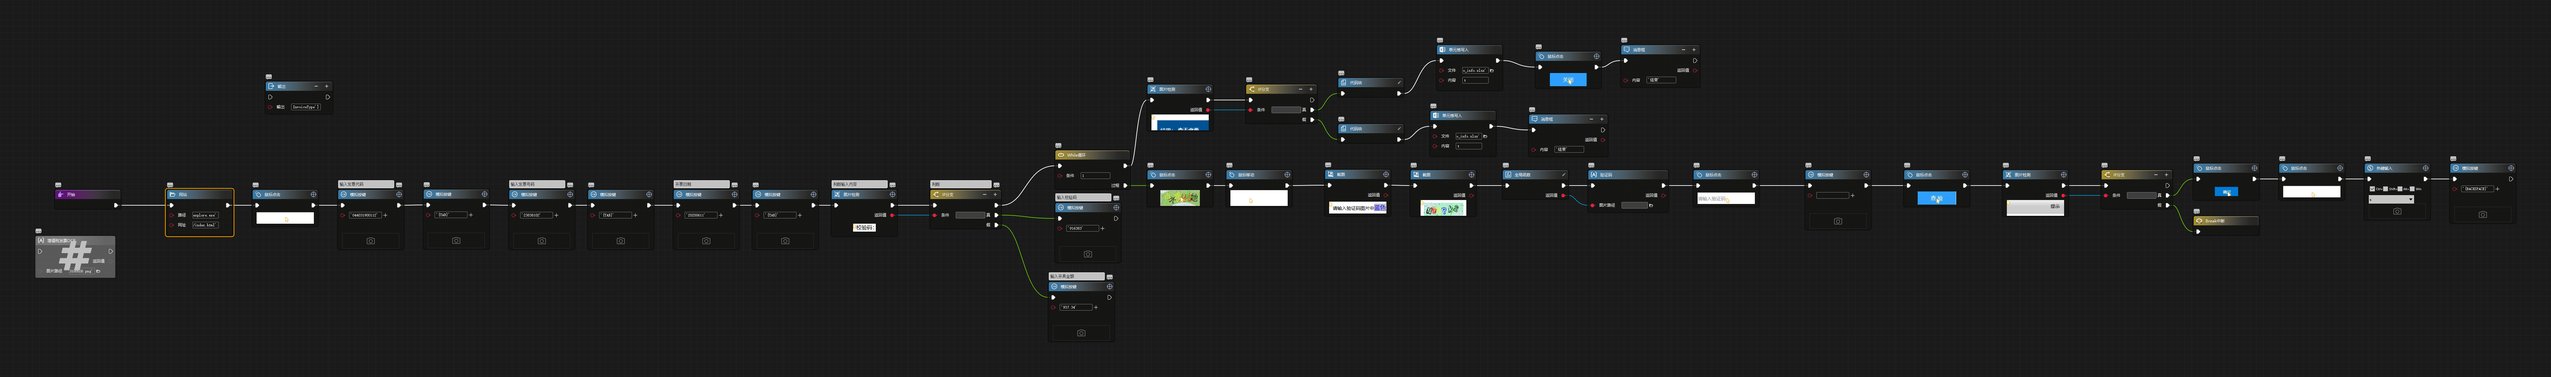
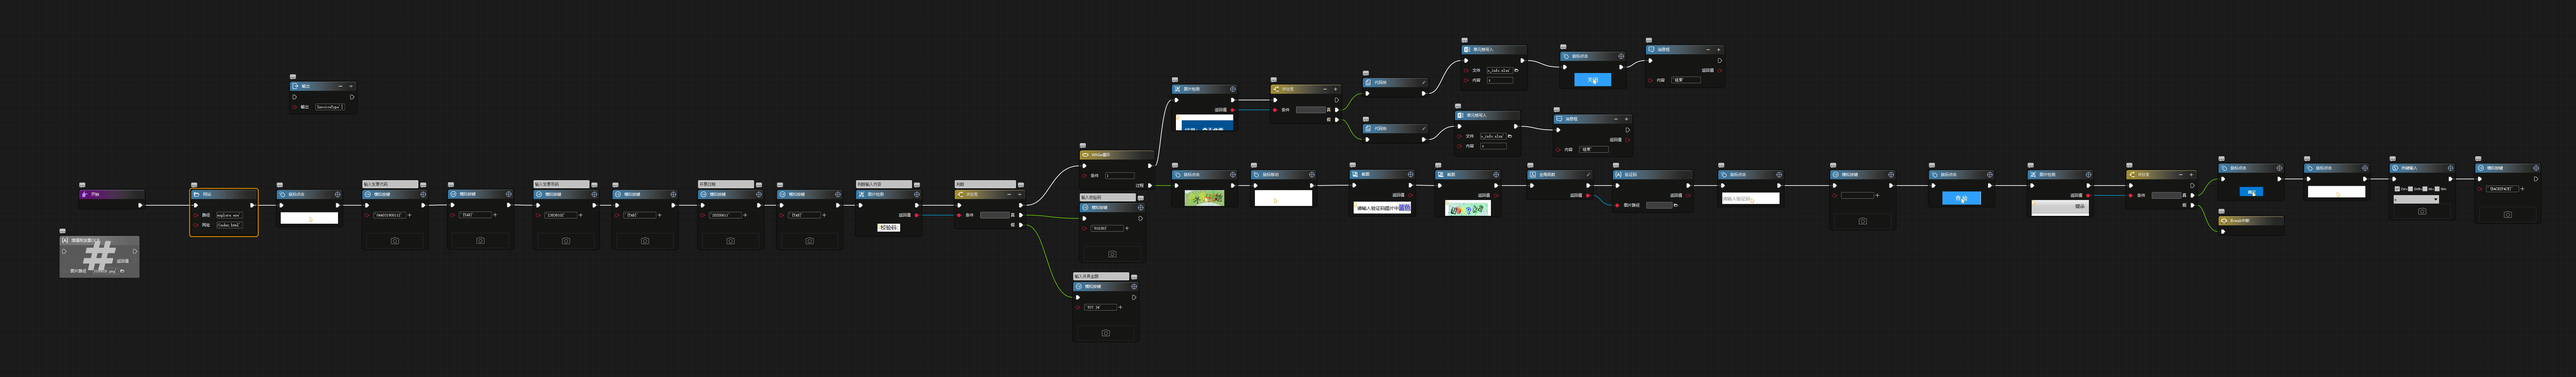
20200623172024

diff --git a/codes/Main_d.py b/codes/Main_d.py
@@ -1,5 +1,5 @@
 # coding=utf-8
-# 编译日期：2020-06-23 17:19:18
+# 编译日期：2020-06-23 17:20:23
 # 版权所有：www.i-search.com.cn
 import time
 import pdb
@@ -38,7 +38,6 @@ class lanhe_fapiao:
         self.dict_info={'AmountInWords':'佰叁拾圆叁角肆分','NoteDrawer':'谢登梅','SellerAddress':'深州市龙华区庆湾街道庆津大道乌庆旺路文汇处民治商务中心1栋115栋、2、3栋、4幢009栋7553323188', 'CommodityPrice':'[]','CommodityNum':'[]','SellerRegisterNum': '91440300689404127F','SellerBank':'农业银行龙华支行41028900040099987','Remarks':'订单号1047426466044621910支付日期2020-06-07','CommodityTaxRate':'[]','TotalTax':'62.05', 'CheckCode':'17960524178417916383','InvoiceCode': '044031900111','InvoiceDate':'2020年06月11日', 'PurchaserRegisterNum':'91440300MA5EGKDJ92','InvoiceTypeOrg': '深圳增值税电子普通发票','Password':'','PurchaserBank':'', 'AmountInFiguers':'937.34','Checker':'郑晓碧','TotalAmount': '875.29','CommodityAmount':"[{'row':'1','word':'875.29'}]", 'PurchaserName':'深圳市蓝禾技术有限公司','CommodityType': '[]','InvoiceType':'电子普通发票','PurchaserAddress':'', 'CommodityTax':"[{'row':'1','word':'62.05'}]", 'CommodityUnit':'[]','Payee':'刘笑额','SellerName':'深圳康润华商贸有限公司','CommodityName':"[{'row':'1','word':'(详见销货清单'}]",'InvoiceNum':'23838102'}
       
     def flow1(self):
-        t=['电子普通发票','深圳增值税电子普通发票','91440300MA5EGKDJ92', '2020年06月11日','044031900111','23838102', '17960524178417916383','875.29','62.05','937.34',"[{'row': '1', 'word': '(详见销货清单'}]"]
         lv_6=[dict_info['InvoiceType'],dict_info['InvoiceTypeOrg'],dict_info['PurchaserRegisterNum'],dict_info[ 'InvoiceDate'],dict_info['InvoiceCode'],dict_info['InvoiceNum'],dict_info['CheckCode'],dict_info['TotalAmount'],dict_info['TotalTax'],dict_info['AmountInFiguers'],dict_info['CommodityName']
         #网站
         self.__logger.debug('Flow:flow1,StepNodeTag:2314134287815,Note:')
@@ -208,6 +207,6 @@ if __name__ == '__main__':
         elif opt in ("-i", "--input"):
             input_arg = arg
     pro = lanhe_fapiao(robot_no=robot_no,proc_no=proc_no,job_no=job_no,input_arg=input_arg)
-    pro.flow1()
+    pro.Main()
     ___logger = ILog(__file__)
     ___logger.debug('Class:Main,ProTag:Quit,Note:Exit')

diff --git a/codes/Main.py b/codes/Main.py
@@ -1,5 +1,5 @@
 # coding=utf-8
-# 编译日期：2020-06-23 17:19:18
+# 编译日期：2020-06-23 17:20:23
 # 版权所有：www.i-search.com.cn
 import time
 import pdb
@@ -38,7 +38,6 @@ class lanhe_fapiao:
         self.dict_info={'AmountInWords':'佰叁拾圆叁角肆分','NoteDrawer':'谢登梅','SellerAddress':'深州市龙华区庆湾街道庆津大道乌庆旺路文汇处民治商务中心1栋115栋、2、3栋、4幢009栋7553323188', 'CommodityPrice':'[]','CommodityNum':'[]','SellerRegisterNum': '91440300689404127F','SellerBank':'农业银行龙华支行41028900040099987','Remarks':'订单号1047426466044621910支付日期2020-06-07','CommodityTaxRate':'[]','TotalTax':'62.05', 'CheckCode':'17960524178417916383','InvoiceCode': '044031900111','InvoiceDate':'2020年06月11日', 'PurchaserRegisterNum':'91440300MA5EGKDJ92','InvoiceTypeOrg': '深圳增值税电子普通发票','Password':'','PurchaserBank':'', 'AmountInFiguers':'937.34','Checker':'郑晓碧','TotalAmount': '875.29','CommodityAmount':"[{'row':'1','word':'875.29'}]", 'PurchaserName':'深圳市蓝禾技术有限公司','CommodityType': '[]','InvoiceType':'电子普通发票','PurchaserAddress':'', 'CommodityTax':"[{'row':'1','word':'62.05'}]", 'CommodityUnit':'[]','Payee':'刘笑额','SellerName':'深圳康润华商贸有限公司','CommodityName':"[{'row':'1','word':'(详见销货清单'}]",'InvoiceNum':'23838102'}
       
     def flow1(self):
-        t=['电子普通发票','深圳增值税电子普通发票','91440300MA5EGKDJ92', '2020年06月11日','044031900111','23838102', '17960524178417916383','875.29','62.05','937.34',"[{'row': '1', 'word': '(详见销货清单'}]"]
         lv_6=[dict_info['InvoiceType'],dict_info['InvoiceTypeOrg'],dict_info['PurchaserRegisterNum'],dict_info[ 'InvoiceDate'],dict_info['InvoiceCode'],dict_info['InvoiceNum'],dict_info['CheckCode'],dict_info['TotalAmount'],dict_info['TotalTax'],dict_info['AmountInFiguers'],dict_info['CommodityName']
         #网站
         self.__logger.debug('Flow:flow1,StepNodeTag:2314134287815,Note:')
@@ -208,4 +207,4 @@ if __name__ == '__main__':
         elif opt in ("-i", "--input"):
             input_arg = arg
     pro = lanhe_fapiao(robot_no=robot_no,proc_no=proc_no,job_no=job_no,input_arg=input_arg)
-    pro.flow1()
+    pro.Main()
